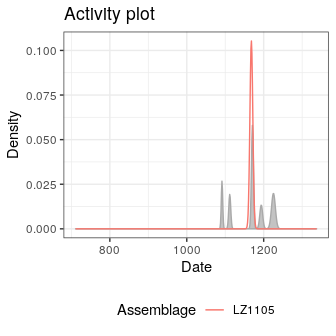
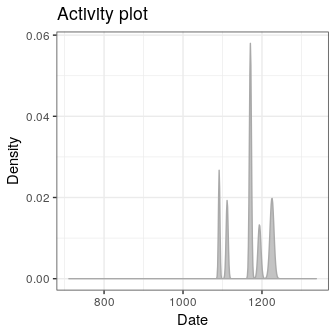
Fix plotDate() method for DateModel objects

diff --git a/README.md b/README.md
@@ -164,7 +164,7 @@ incidence <- IncidenceMatrix(data = sample(0:1, 400, TRUE, c(0.6, 0.4)),
 # Correspondance analysis-based seriation
 (indices <- seriate(incidence, method = "correspondance", margin = c(1, 2)))
 #> Permutation order for matrix seriation: 
-#>    Matrix ID: 5c6cc539-462b-4ed1-be82-b4c03cc215c3 
+#>    Matrix ID: a4264682-4997-4cf4-892e-2880431c5edf 
 #>    Row order: 20 16 13 4 3 1 9 10 19 2 7 6 17 11 5 14 12 8 15 18 
 #>    Column order: 16 1 9 8 4 14 13 18 20 6 7 3 17 2 11 19 5 15 12 10 
 #>    Method: correspondance
@@ -209,11 +209,11 @@ setDates(zuni) <- c(
 # Model the event and accumulation date for each assemblage.
 model <- dateEvent(zuni, cutoff = 90)
 # Plot event and accumulation date distributions
-plotDate(model, select = "LZ1105") +
+plotDate(model, type = "activity", select = "LZ1105") +
   ggplot2::labs(title = "Activity plot") +
   ggplot2::theme_bw() +
   ggplot2::theme(legend.position = "bottom")
-plotDate(model, select = "LZ1105", tempo = TRUE) +
+plotDate(model, type = "tempo", select = "LZ1105") +
   ggplot2::labs(title = "Tempo plot") +
   ggplot2::theme_bw() +
   ggplot2::theme(legend.position = "bottom")
